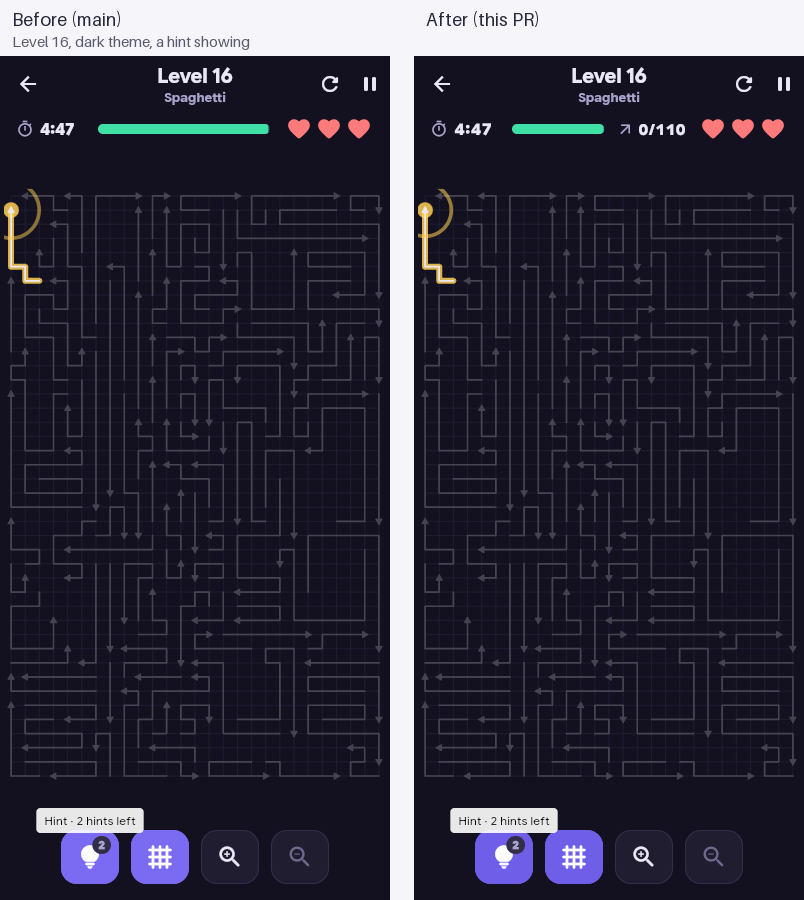
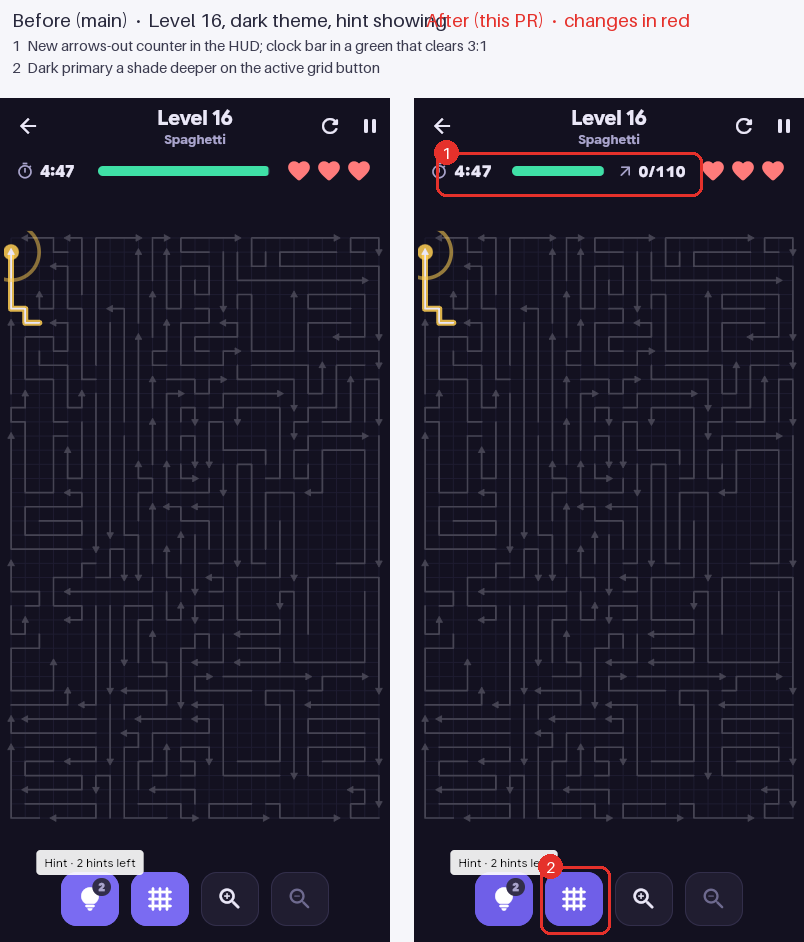
Screenshots: mark what changed with callouts on the after half
Numbered red boxes on the right half of each pair, with a key above;
the two screens with no visible change are dropped.

Claude-Session: https://claude.ai/code/session_01PHtvnzFu1RWKj2hZfxzAbD

diff --git a/docs/screenshots/accessibility/README.md b/docs/screenshots/accessibility/README.md
@@ -1,7 +1,10 @@
 # Accessibility: before / after
 
 Side-by-side captures for the accessibility pass (pull request #24): the
-left half of each image is `main` before it, the right half the branch.
+left half of each image is `main` before it, the right half the branch,
+with numbered red callouts on the right half marking what changed and a
+key above. Screens with no visible change (the walkthrough, the solved
+riddle card) are left out.
 
 Both halves come from the web build driven by `tool/screenshot.mjs` in
 headless Chromium — the cloud session has no Android emulator — at the two
